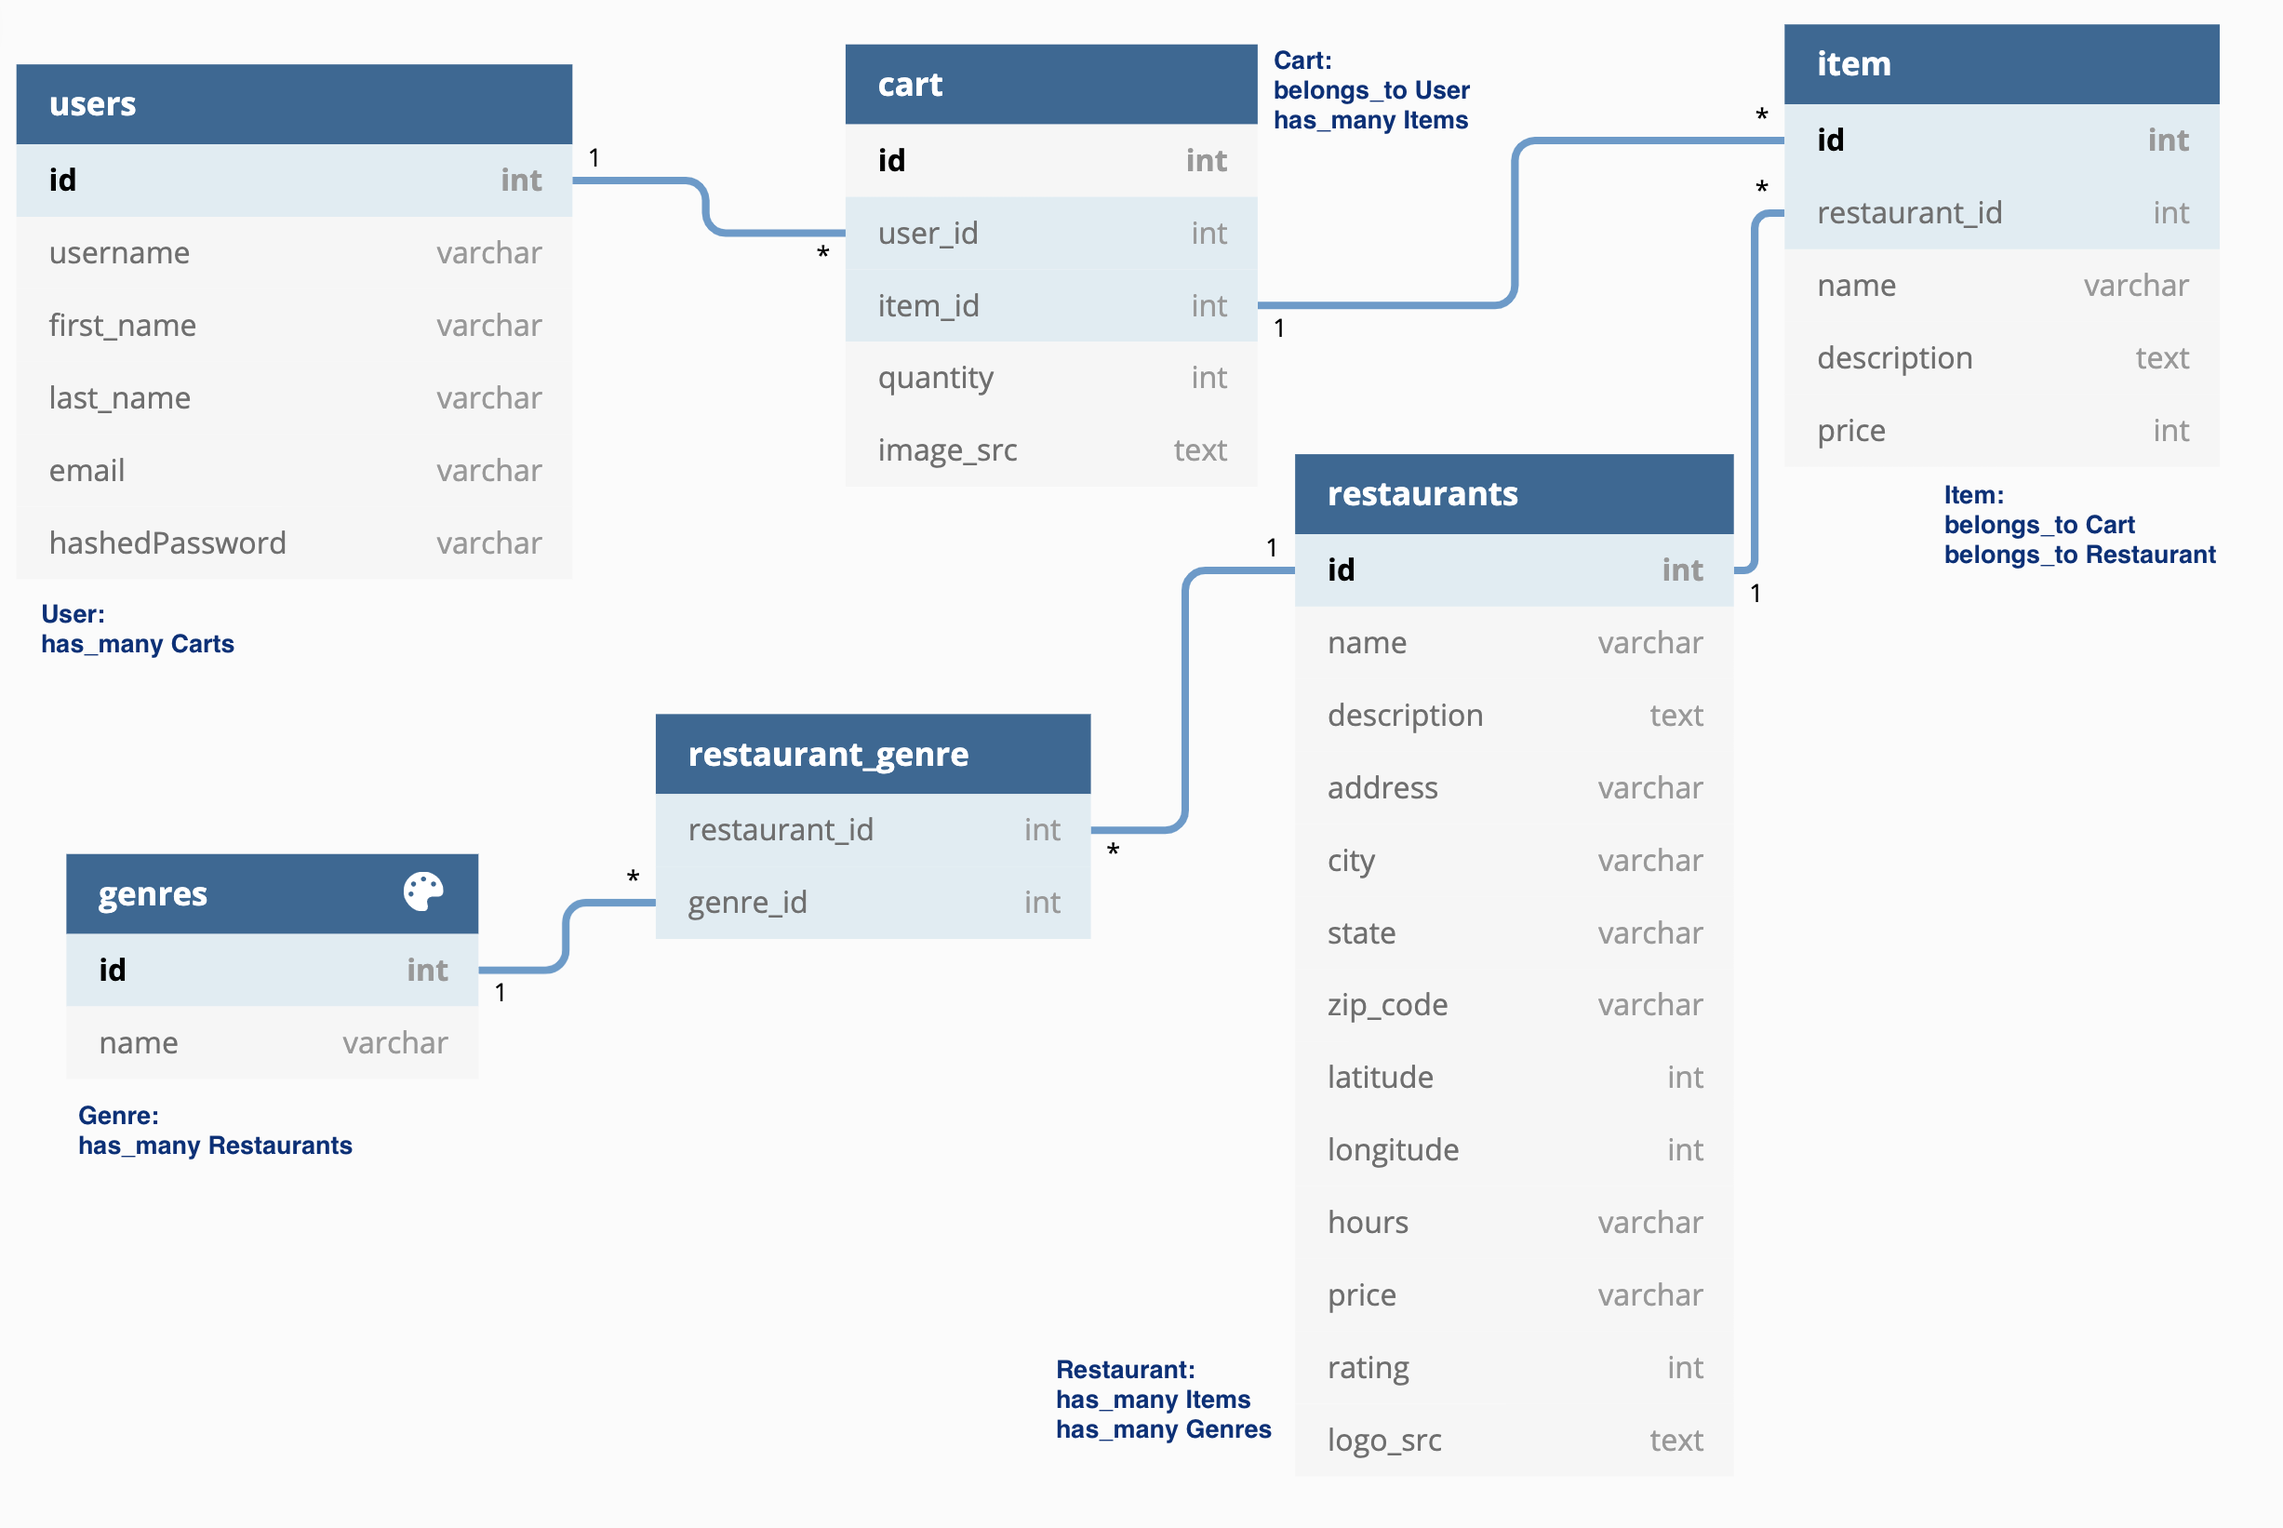
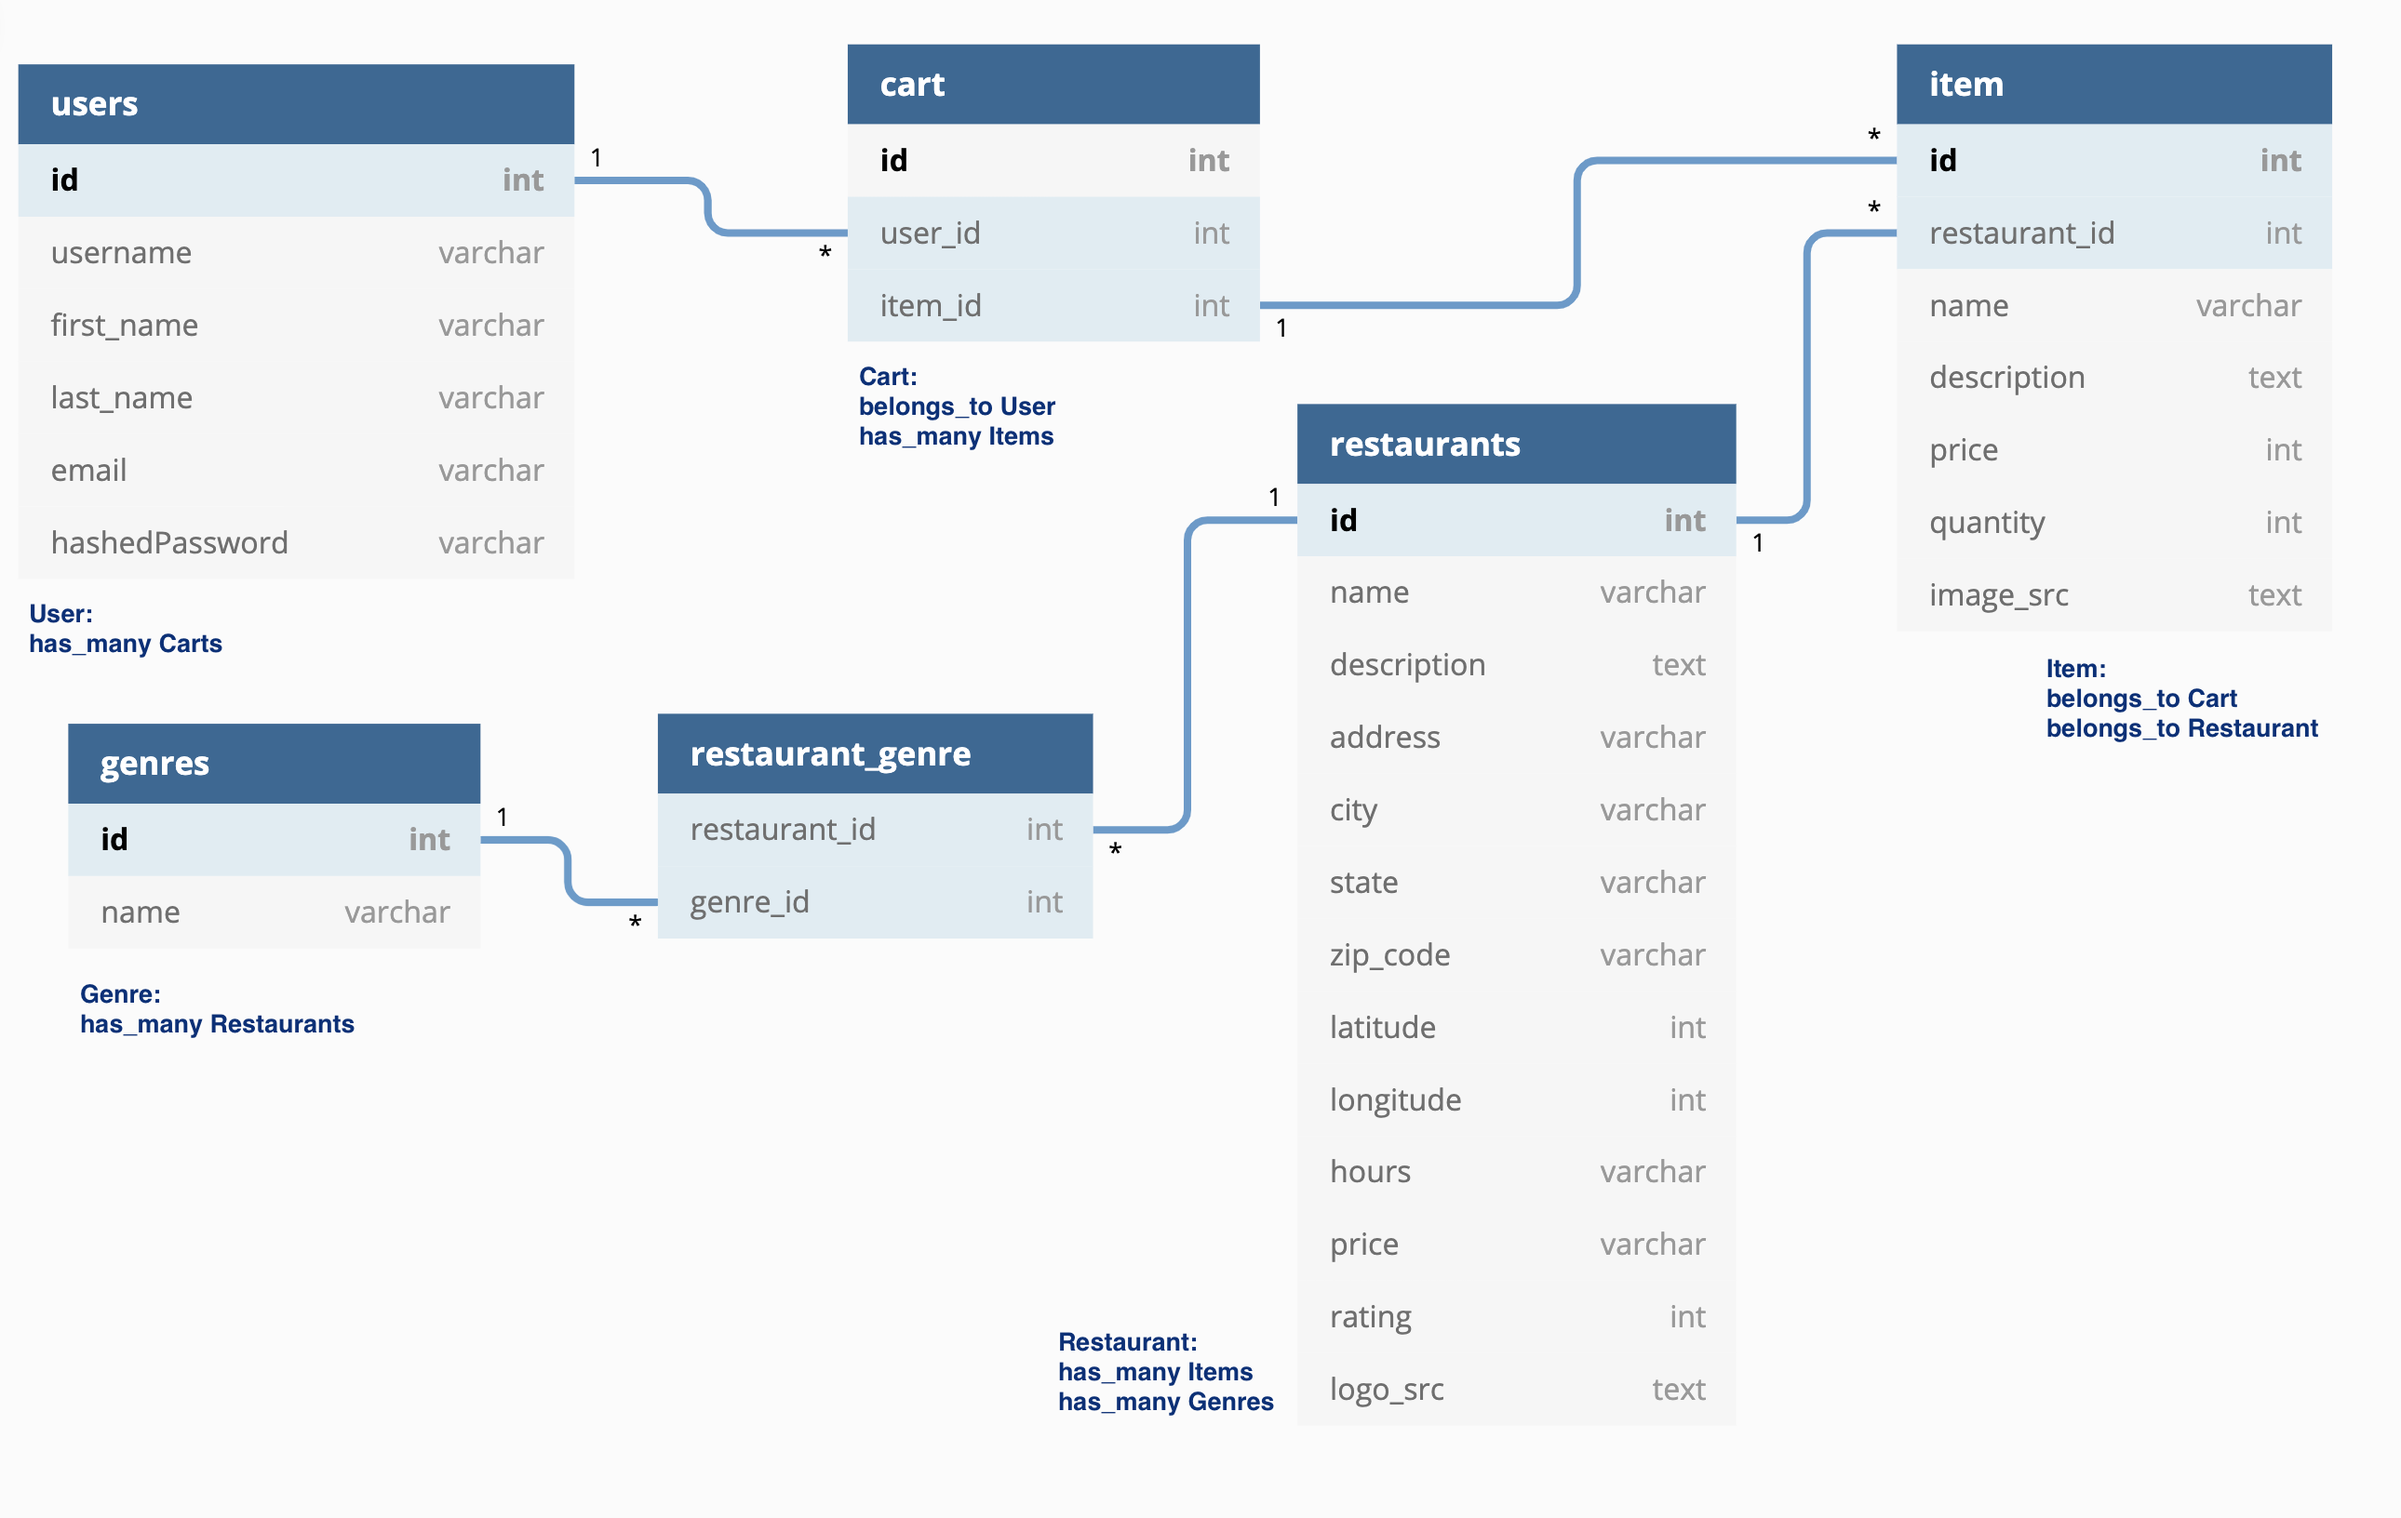
created models

diff --git a/app/models/restaurant.py b/app/models/restaurant.py
@@ -1,0 +1,39 @@
+from .db import db
+
+class Restaurant(db.Model):
+    __tablename__ = 'restaurants'
+
+    id = db.Column(db.Integer, primary_key=True)
+    name = db.Column(db.String(50), nullable=False)
+    description = db.Column(db.String, nullable=False)
+    address = db.Column(db.String, nullable=False)
+    city = db.Column(db.String, nullable=False)
+    state = db.Column(db.String, nullable=False)
+    zip_code = db.Column(db.String, nullable=False)
+    latitude = db.Column(db.Integer)
+    longitude = db.Column(db.Integer)
+    hours = db.Column(db.String, nullable=False)
+    price = db.Column(db.String, nullable=False)
+    rating = db.Column(db.Integer, nullable=False)
+    logo_src = db.Column(db.String)
+
+    genres = db.relationship("Genre", secondary=restaurants_genres, back_populates="restaurants")
+    items = db.relationship("Item", back_populates="restaurant")
+
+    def to_dict(self):
+        return {
+            "id": self.id,
+            "name": self.name,
+            "description": self.description,
+            "address": self.address,
+            "city": self.city,
+            "state": self.state,
+            "zip_code": self.zip_code,
+            "latitude": self.latitude,
+            "longitude": self.longitude,
+            "hours": self.hours,
+            "price": self.price,
+            "rating": self.rating,
+            "logo_src": self.logo_src
+            "genres": [genre.to_dict() for genre in self.genres]
+        }

diff --git a/app/models/item.py b/app/models/item.py
@@ -1,0 +1,26 @@
+from .db import db
+
+class Item(db.Model):
+    __tablename__ = 'items'
+
+    id = db.Column(db.Integer, primary_key=True)
+    restaurant_id = db.Column(db.Integer, db.ForeignKey(restaurants.id), nullable=False)
+    name = db.Column(db.String(50), nullable=False)
+    description = db.Column(db.String, nullable=False)
+    price = db.Column(db.Integer, nullable=False)
+    quantity = db.Column(db.Integer)
+    image_src = db.Column(db.String)
+
+    cart = db.relationship("Cart", back_populates="items")
+    restaurant = db.relationship("Restaurant", back_populates="items")
+
+    def to_dict(self):
+        return {
+            "id": self.id,
+            "restaurant_id": self.restaurant_id,
+            "name": self.name,
+            "description": self.description,
+            "price": self.price,
+            "quantity": self.quantity,
+            "image_src": self.image_src,
+        }

diff --git a/app/models/cart.py b/app/models/cart.py
@@ -1,0 +1,19 @@
+from .db import db
+
+class Cart(db.Model):
+    __tablename__ = "carts"
+
+    id = db.Column(db.Integer, primary_key=True)
+    user_id = db.Column(db.Integer, db.ForeignKey("users.id"), nullable=False)
+    item_id = db.Column(db.Integer, db.ForeignKey("items.id"), nullable=False)
+
+    user = db.relationship("User", back_populates="carts")
+    items = db.relationship("Item", back_populates="cart")
+
+    def to_dict(self):
+        return {
+            "id": self.id,
+            "user_id": self.user_id,
+            "item_id": self.item_id
+        }
+

diff --git a/app/models/genre.py b/app/models/genre.py
@@ -1,0 +1,15 @@
+from .db import db
+
+class Genre(db.Model):
+    __tablename__ = 'genres'
+
+    id = db.Column(db.Integer, primary_key=True)
+    name = db.Column(db.String, nullable=False)
+
+    restaurants = db.relationship("Restaurant", secondary=restaurants_genres, back_populates="genres")
+
+    def to_dict(self):
+        return {
+            "id": self.id,
+            "name": self.name
+        }

diff --git a/app/models/restaurantgenre.py b/app/models/restaurantgenre.py
@@ -1,0 +1,10 @@
+from .db import db
+from sqlalchemy.ext.declarative import declarative_base
+
+Base = declarative_base()
+
+
+restaurants_genres = db.Table(
+    "restaurants_genres",
+    db.Column("restaurant_id", db.Integer, ForeignKey(restaurants.id), primary_key=True),
+    db.Column("genre_id", db.Integer, ForeignKey("genres.id"), primary_key=True))

diff --git a/app/models/user.py b/app/models/user.py
@@ -12,6 +12,8 @@ class User(db.Model, UserMixin):
   email = db.Column(db.String(255), nullable = False, unique = True)
   hashed_password = db.Column(db.String(255), nullable = False)
 
+  carts = db.relationship("Cart", back_populates="user")
+
 
   @property
   def password(self):

diff --git a/app/models/__init__.py b/app/models/__init__.py
@@ -1,2 +1,3 @@
 from .db import db
 from .user import User
+from .cart import Cart
